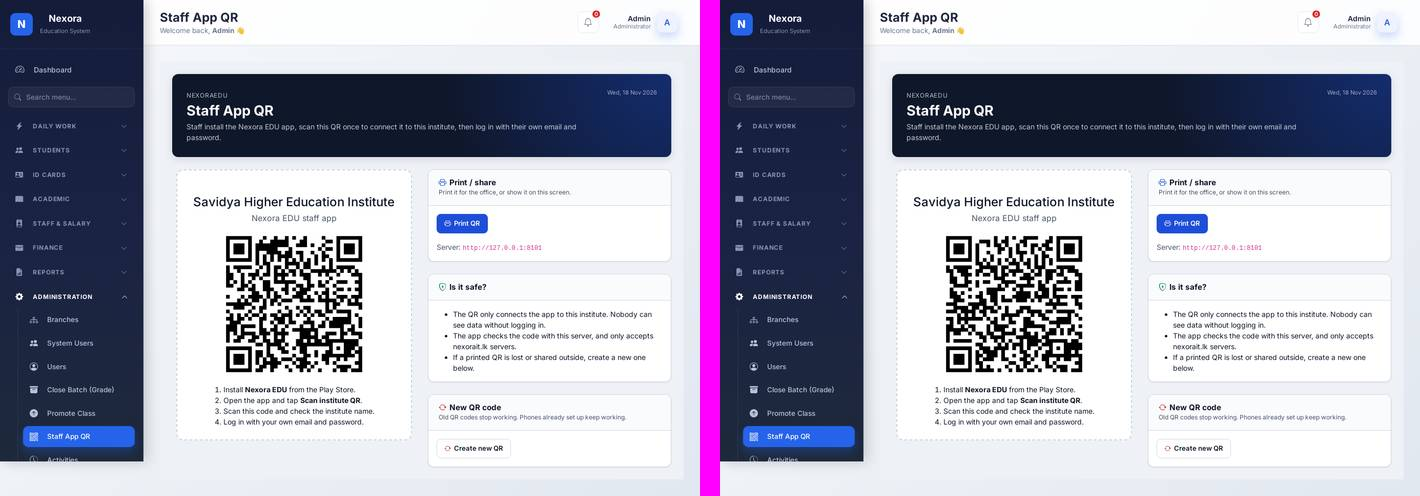
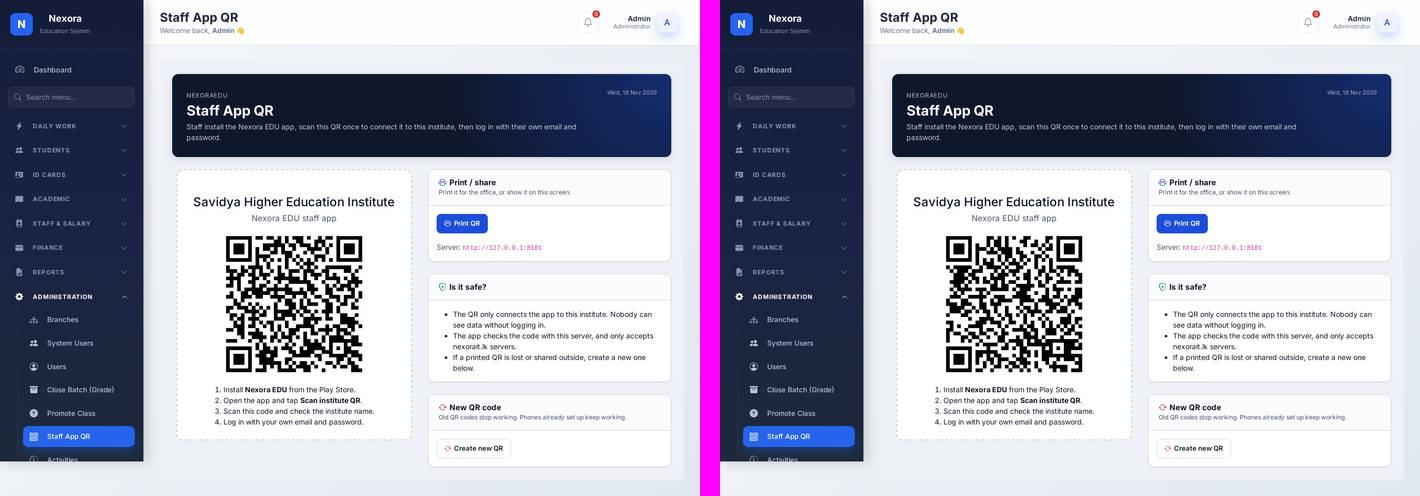
Screens for pr-212 (38df7bb)

Changed region(s): [[0.1549, 0.4536, 0.2789, 0.756], [0.6507, 0.4536, 0.7746, 0.756]]

diff --git a/pr-212/summary.md b/pr-212/summary.md
@@ -1,7 +1,5 @@
-136 screenshots, **3 changed** (left: before, right: after)
+136 screenshots, **1 changed** (left: before, right: after)
 
 | Page | Height | Changed | First element that differs |
 |---|---|---|---|
-| desktop__app_setup_qr | 967px → 967px | 1.02% |  |
-| mobile__admin_attendance | 1203px → 1205px | 0.87% | `li.ui-nav-item` 85×34@49,419 → 85×34@49,419 margin-bottom: 4px → 5.6px |
-| desktop__admin_attendance | 918px → 920px | 0.2% | `li.ui-nav-item` 85×34@353,383 → 85×34@353,383 margin-bottom: 4px → 5.6px |
+| desktop__app_setup_qr | 967px → 967px | 1.67% |  |
